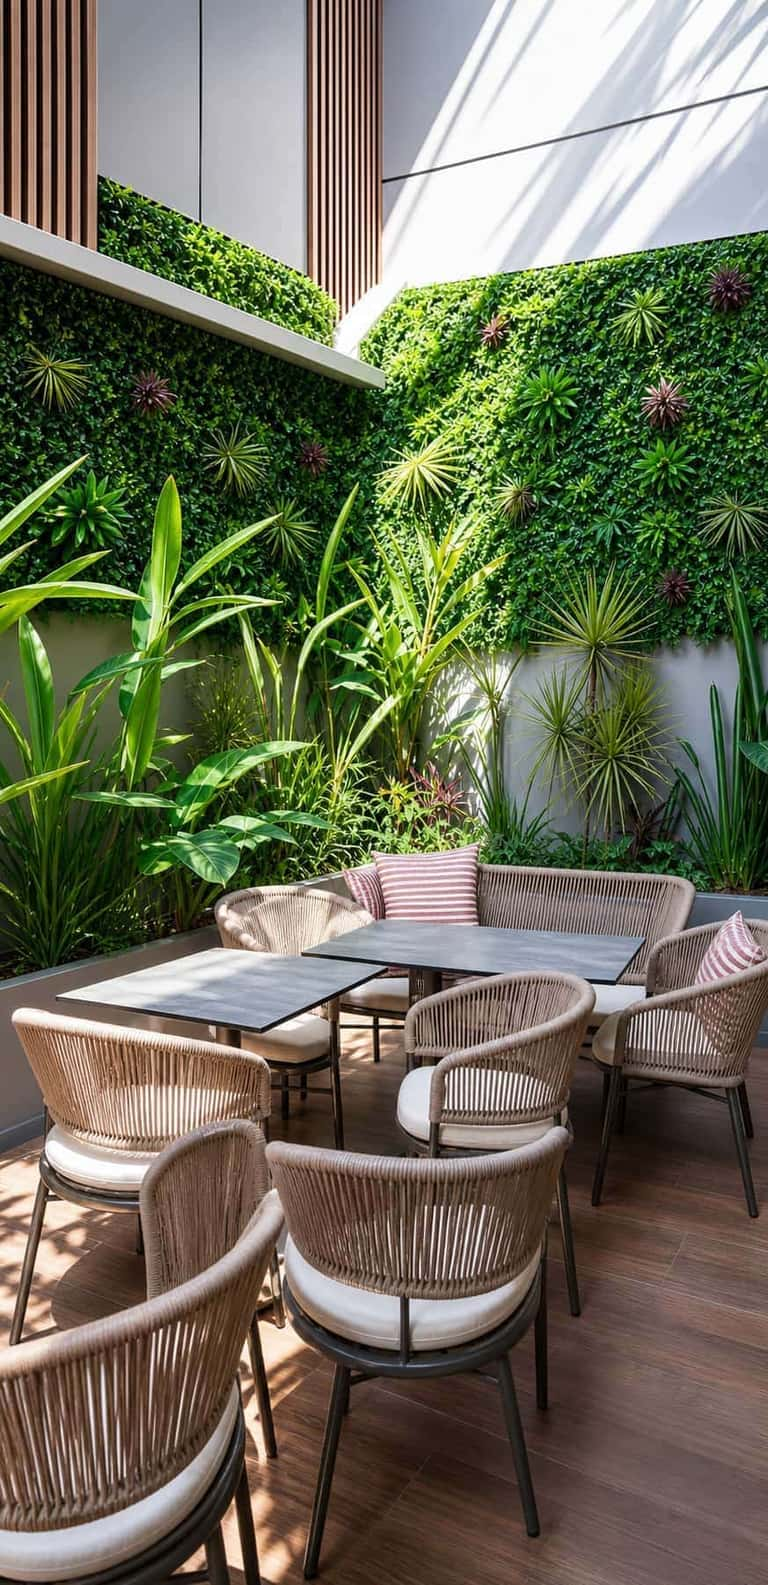
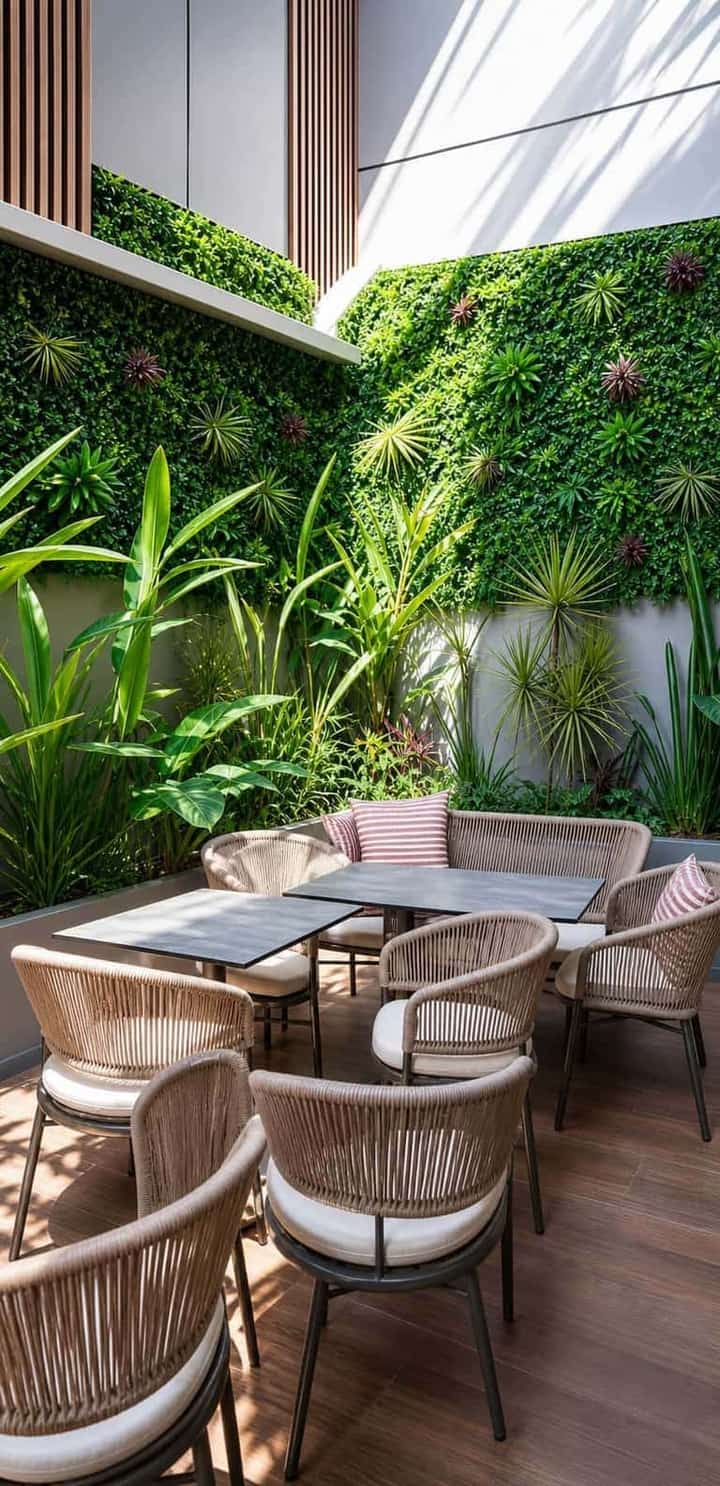
Mobile menu: smaller refined type + slim address mobile image
Menu typography:
- Page labels 40px → 24px on phones, 48px → 30px on sm+. The
  poster-scale display type was overwhelming on small screens.
- Vertical row padding py-7 → py-5; gap 6 → 5; dot mt-3 → mt-2 to
  match the new label size.
- Weight 400 → 500 (slightly heavier reads better at small sizes).
- Letter-spacing tightened a touch (-0.005em) since the smaller
  glyphs no longer need extra breathing.

home/address/mobile.jpg:
- Re-optimise to 720px / quality 55 — drops 166 KB → 132 KB,
  in line with the other mobile heroes.

Changed region(s): [[0.6111, 0.3715, 0.6417, 0.4024], [0.6111, 0.2476, 0.6417, 0.2786], [0.55, 0.4953, 0.5806, 0.5262]]

diff --git a/frontend/components/layout/Header.tsx b/frontend/components/layout/Header.tsx
@@ -180,7 +180,7 @@ export function Header() {
                   href={item.href}
                   onClick={() => setOpen(false)}
                   className={cn(
-                    "flex items-baseline gap-6 py-7 transition-colors group",
+                    "flex items-baseline gap-5 py-5 transition-colors group",
                     item.active ? "text-brand-500" : "text-ink hover:text-brand-500",
                   )}
                 >
@@ -193,14 +193,14 @@ export function Header() {
                     {String(i + 1).padStart(2, "0")}
                   </span>
                   <span
-                    className="font-display text-[2.5rem] sm:text-5xl leading-[1.05]"
-                    style={{ fontWeight: 400, letterSpacing: "-0.01em" }}
+                    className="font-display text-2xl sm:text-3xl leading-[1.1]"
+                    style={{ fontWeight: 500, letterSpacing: "-0.005em" }}
                   >
                     {item.label}
                   </span>
                   {item.active && (
                     <span
-                      className="ml-auto mt-3 size-1.5 rounded-full bg-brand-500 shrink-0"
+                      className="ml-auto mt-2 size-1.5 rounded-full bg-brand-500 shrink-0"
                       aria-hidden
                     />
                   )}
